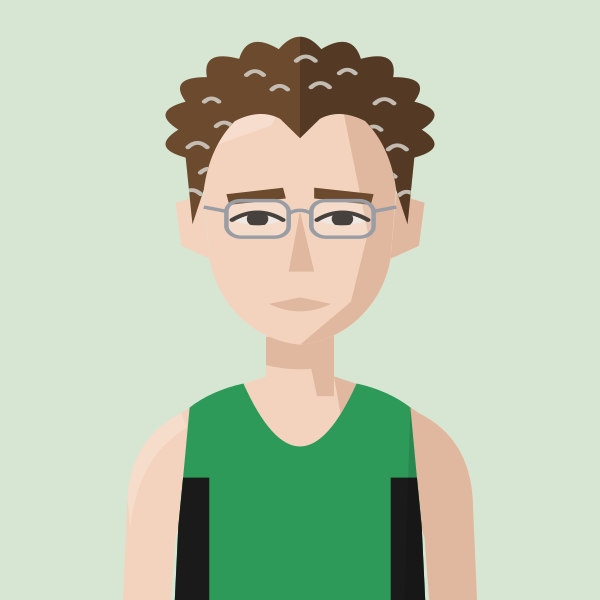
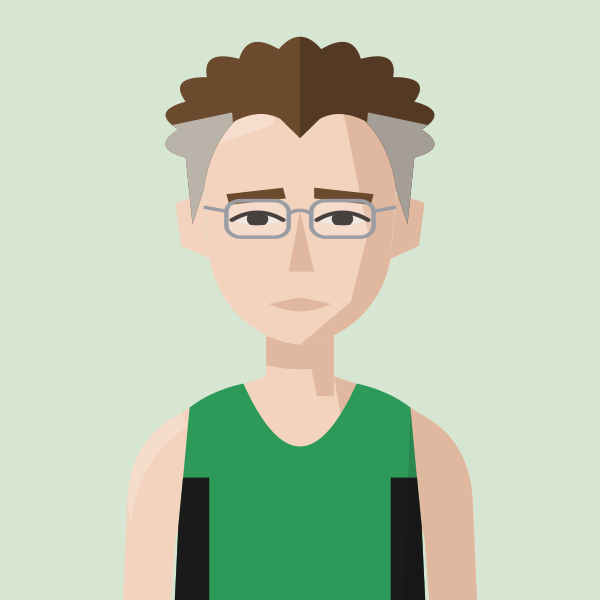
Greying: flat grey sides instead of specks (Tom South, Simon Coombes, Mark Tennyson)
Claude-Session: https://claude.ai/code/session_01MgmDWhFqnSSnP4iBLKXUZC

diff --git a/files/index.html b/files/index.html
@@ -583,7 +583,7 @@ return m;})();
 const portraitFile=(name,club)=>{const k=normalizeNameForCompare(name||'').replace(/\s*\(([^)]*)\)$/,(m,c)=>CLUBS[c.toUpperCase()]?'':m);const a=PORTRAITS[k];if(a&&a.club===club)return a.file;const b=PORTRAITS[k+'@'+club];return b?b.file:null;};
 // Athlete header figure: superstar portrait if we have one, else a grey runner in the club vest, else the plain vest icon
 // Changes whenever any portrait changes (set by tools/build_og.py), so browsers fetch fresh images instead of old cached ones
-const PORTRAIT_V='160aee50';
+const PORTRAIT_V='e96a9190';
 const AthletePortrait=({name,club,w,fill,onClick})=>{const[failed,setFailed]=useState(false);const file=portraitFile(name,club);const src=file?`/portraits/athletes/${file}.svg?v=${PORTRAIT_V}`:PORTRAIT_CLUBS.has(club)?`/portraits/clubs/${club.replace(/\//g,'').replace(/&/g,'and')}.svg?v=${PORTRAIT_V}`:null;if(!src||failed)return<div onClick={onClick} className={onClick?'cursor-pointer':''}><ClubShield club={club} size={w}/></div>;const h=Math.round(w*148/126),ih=Math.round(w*1.4);if(fill)return<div onClick={onClick} className="cursor-pointer" style={{alignSelf:'stretch',minHeight:h,aspectRatio:'126 / 148',flexShrink:0,position:'relative',borderRadius:4,overflow:'hidden'}}><img src={src} alt={file?`Portrait of ${name.replace(/\s*\([^)]*\)$/,'')}`:`Runner in ${CLUBS[club]?.name||club} vest`} style={{position:'absolute',top:0,left:0,display:'block',width:'100%',height:'auto'}} onError={()=>setFailed(true)}/></div>;return<div style={{width:w,height:h,borderRadius:4,overflow:'hidden',flexShrink:0}}><img src={src} alt={file?`Portrait of ${name.replace(/\s*\([^)]*\)$/,'')}`:`Runner in ${CLUBS[club]?.name||club} vest`} width={w} height={ih} style={{display:'block',width:w,height:ih}} onError={()=>setFailed(true)}/></div>;};
 const getClubVestSvg=(club)=>{
   const p="M3 0 L6 0 Q7 4 10 5 Q13 4 14 0 L17 0 L17 20 L3 20 Z";

diff --git a/tools/gen_portraits.py b/tools/gen_portraits.py
@@ -258,8 +258,10 @@ def figure(kit, mode="custom", skin=1, hair="crop", hair_colour="dark brown", fa
                     hg.append(f'<path d="M90,149 L110,149 L108,154 L92,154 Z" fill="{dk}"/>')
         if hair in HAIR:
             hg.append(f'<g fill="{hc}"' + (f' clip-path="url(#c{tag})"' if (cap or beanie) else '') + (' opacity=".6"' if hair in ("buzz","buzzrecede") else '') + f'>{HAIR[hair]}<g clip-path="url(#r{tag})" fill="#000" opacity=".22">{HAIR[hair]}</g></g>')
-            if greying:
+            if greying is True:
                 hg.append(f'<clipPath id="hg{tag}">{HAIR[hair]}</clipPath><g clip-path="url(#hg{tag})" fill="none" stroke="#CFCAC2" stroke-width="1.8" stroke-linecap="round" opacity=".9"><path d="M60.4,78.2 q3.4,-4.1 6.8,0"/><path d="M64.8,90.0 q3.1,-3.7 6.2,0"/><path d="M58.6,100.0 q3.1,-3.8 6.3,0"/><path d="M70.4,68.4 q2.8,-3.4 5.6,0"/><path d="M131.2,79.2 q3.2,-3.8 6.4,0"/><path d="M126.7,91.9 q3.5,-4.2 6.9,0"/><path d="M135.0,100.5 q2.7,-3.2 5.3,0"/><path d="M123.5,70.1 q2.6,-3.1 5.1,0"/><path d="M66.2,57.0 q2.5,-3.0 5.1,0"/><path d="M126.5,57.8 q3.3,-4.0 6.7,0"/><path d="M81.1,44.6 q3.0,-3.6 6.0,0"/><path d="M113.9,43.8 q2.8,-3.3 5.6,0"/><path d="M98.7,38.0 q3.3,-4.0 6.7,0"/><path d="M90.1,51.3 q2.7,-3.3 5.5,0"/><path d="M103.9,50.3 q3.3,-3.9 6.5,0"/></g>')
+            if greying == "sides":  # flat grey on the sides below the crown, geometric two-tone
+                hg.append(f'<clipPath id="hs{tag}">{HAIR[hair]}</clipPath><g clip-path="url(#hs{tag})"><path d="M40,72 L76,62 L80,120 L40,120 Z" fill="#B9B3AA"/><path d="M160,72 L124,62 L120,120 L160,120 Z" fill="#A49E96"/></g>')
             if temples:  # grey at the temples
                 hg.append(f'<clipPath id="ht{tag}">{HAIR[hair]}</clipPath><g clip-path="url(#ht{tag})" fill="#9C948A" opacity=".8"><path d="M56,80 L73,77 L72,106 L56,106 Z"/><path d="M144,80 L127,77 L128,106 L144,106 Z"/></g>')
             if headband:  # thin sports headband across the hairline
@@ -439,7 +441,7 @@ save("cap_beanie", figure("HOL", skin=2, hair="crop", hair_colour="mid brown", b
 save("ruby", figure("H/W", skin=1, hair="ponytail", hair_colour="blonde"))
 save("foster", figure("G&G", skin=1, hair="crop", hair_colour="dark brown", facial="stubble"))
 save("hair_shortcurls", figure("HOL", skin=2, hair="shortcurls", hair_colour="mid brown"))
-save("tennyson", figure("G&G", skin=1, hair="curlspeak", hair_colour="mid brown", greying=True, glasses=True))
+save("tennyson", figure("G&G", skin=1, hair="curlspeak", hair_colour="mid brown", greying="sides", glasses=True))
 save("glasses_on", figure("HOL", skin=3, hair="crop", hair_colour="dark brown", glasses=True))
 save("ollington", figure("THH", skin=2, hair="crop", hair_colour="dark brown", facial="beard"))
 save("preston", figure("BEL", skin=3, hair="afro", hair_colour="black"))
@@ -736,8 +738,8 @@ save("john-bicourt", figure("BEL", skin=1, hair="seventies", hair_colour="#4A302
 save("tony-harran", figure("HHH", skin=1, hair="tuftrecede", hair_colour="#4A3426", gaunt=True, creases=True))
 save("robert-elphick", figure("KEN", skin=1, hair="tousled", hair_colour="#3A2820"))
 save("david-ogden", figure("SLH", skin=1, hair="horseshoe", hair_colour="#A89880", gaunt=True, creases=True, brow_colour="#8A7A66"))
-save("simon-coombes", figure("HHH", skin=1, hair="croppeak", hair_colour="#7A6A58", greying=True, gaunt=True))
-save("tom-south", figure("DUL", skin=1, hair="crop", hair_colour="#8A6E52", greying=True, gaunt=True))
+save("simon-coombes", figure("HHH", skin=1, hair="croppeak", hair_colour="#7A6A58", greying="sides", gaunt=True))
+save("tom-south", figure("DUL", skin=1, hair="crop", hair_colour="#8A6E52", greying="sides", gaunt=True))
 save("peter-giles", figure("H/W", skin=1, hair="slick", hair_colour="#BDB8AE", facial="goatee", facial_colour="#A8A39A", brow_colour="#8C8780", gaunt=True, creases=True, sleeves="#D8262E"))
 save("peter-giles-thh", figure("THH", skin=1, hair="slick", hair_colour="#BDB8AE", facial="goatee", facial_colour="#A8A39A", brow_colour="#8C8780", gaunt=True, creases=True, sleeves="#D8262E"))
 save("mike-farmery", figure("THH", skin=1, hair="horseshoe", hair_colour="#6E6254", glasses=True, brow_colour="#6E6254", gaunt=True, creases=True))
